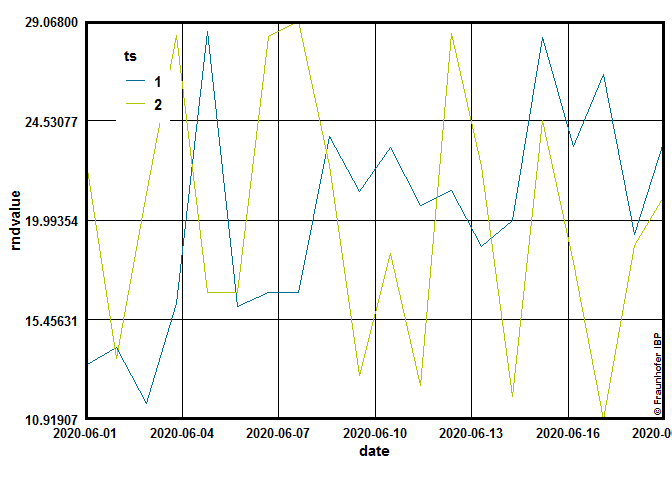
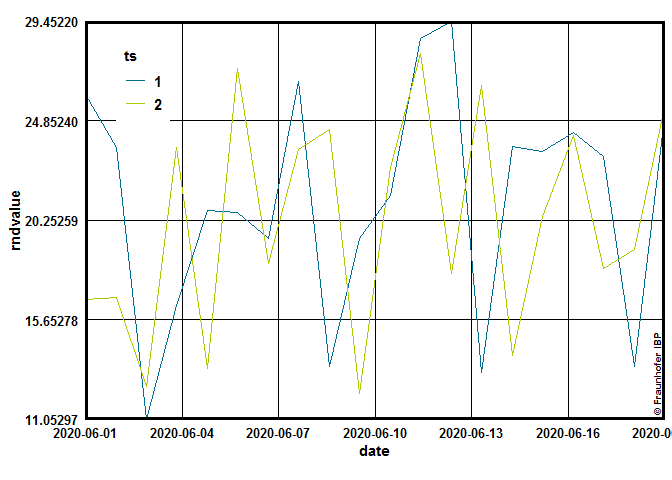
fixed bug in scale datetime?

diff --git a/README.md b/README.md
@@ -29,6 +29,8 @@ library(ggIBPplot)
 library(magrittr)
 library(scales)
 #> Warning: package 'scales' was built under R version 3.6.2
+library(prismatic)
+#> Warning: package 'prismatic' was built under R version 3.6.2
 ## basic example code
 palmerpenguins::penguins %>% 
   na.exclude() %>% 
@@ -167,8 +169,8 @@ ggplot(dat2 , aes(y = rndvalue, x = date)) +
   # Wichtig:
   # Ich selber habe hier Fehlermeldungen bekommen, wenn ich color = ts in den ggplot aes gesteckt habe
   # und Gleichzeitig geom_fraunhofer_label_date verweden hab.
-  theme_ibp(aspect = 1) + 
-  scale_x_ibp_datetime(n = 5) +
+  theme_ibp(aspect = 5/8.5) + 
+  scale_x_ibp_datetime(n = 8) +
   scale_y_ibp_cont() +
   scale_colour_ibp(values = ibp_cols$all[4:5]) +
   geom_fraunhofer_label_datetime() +
